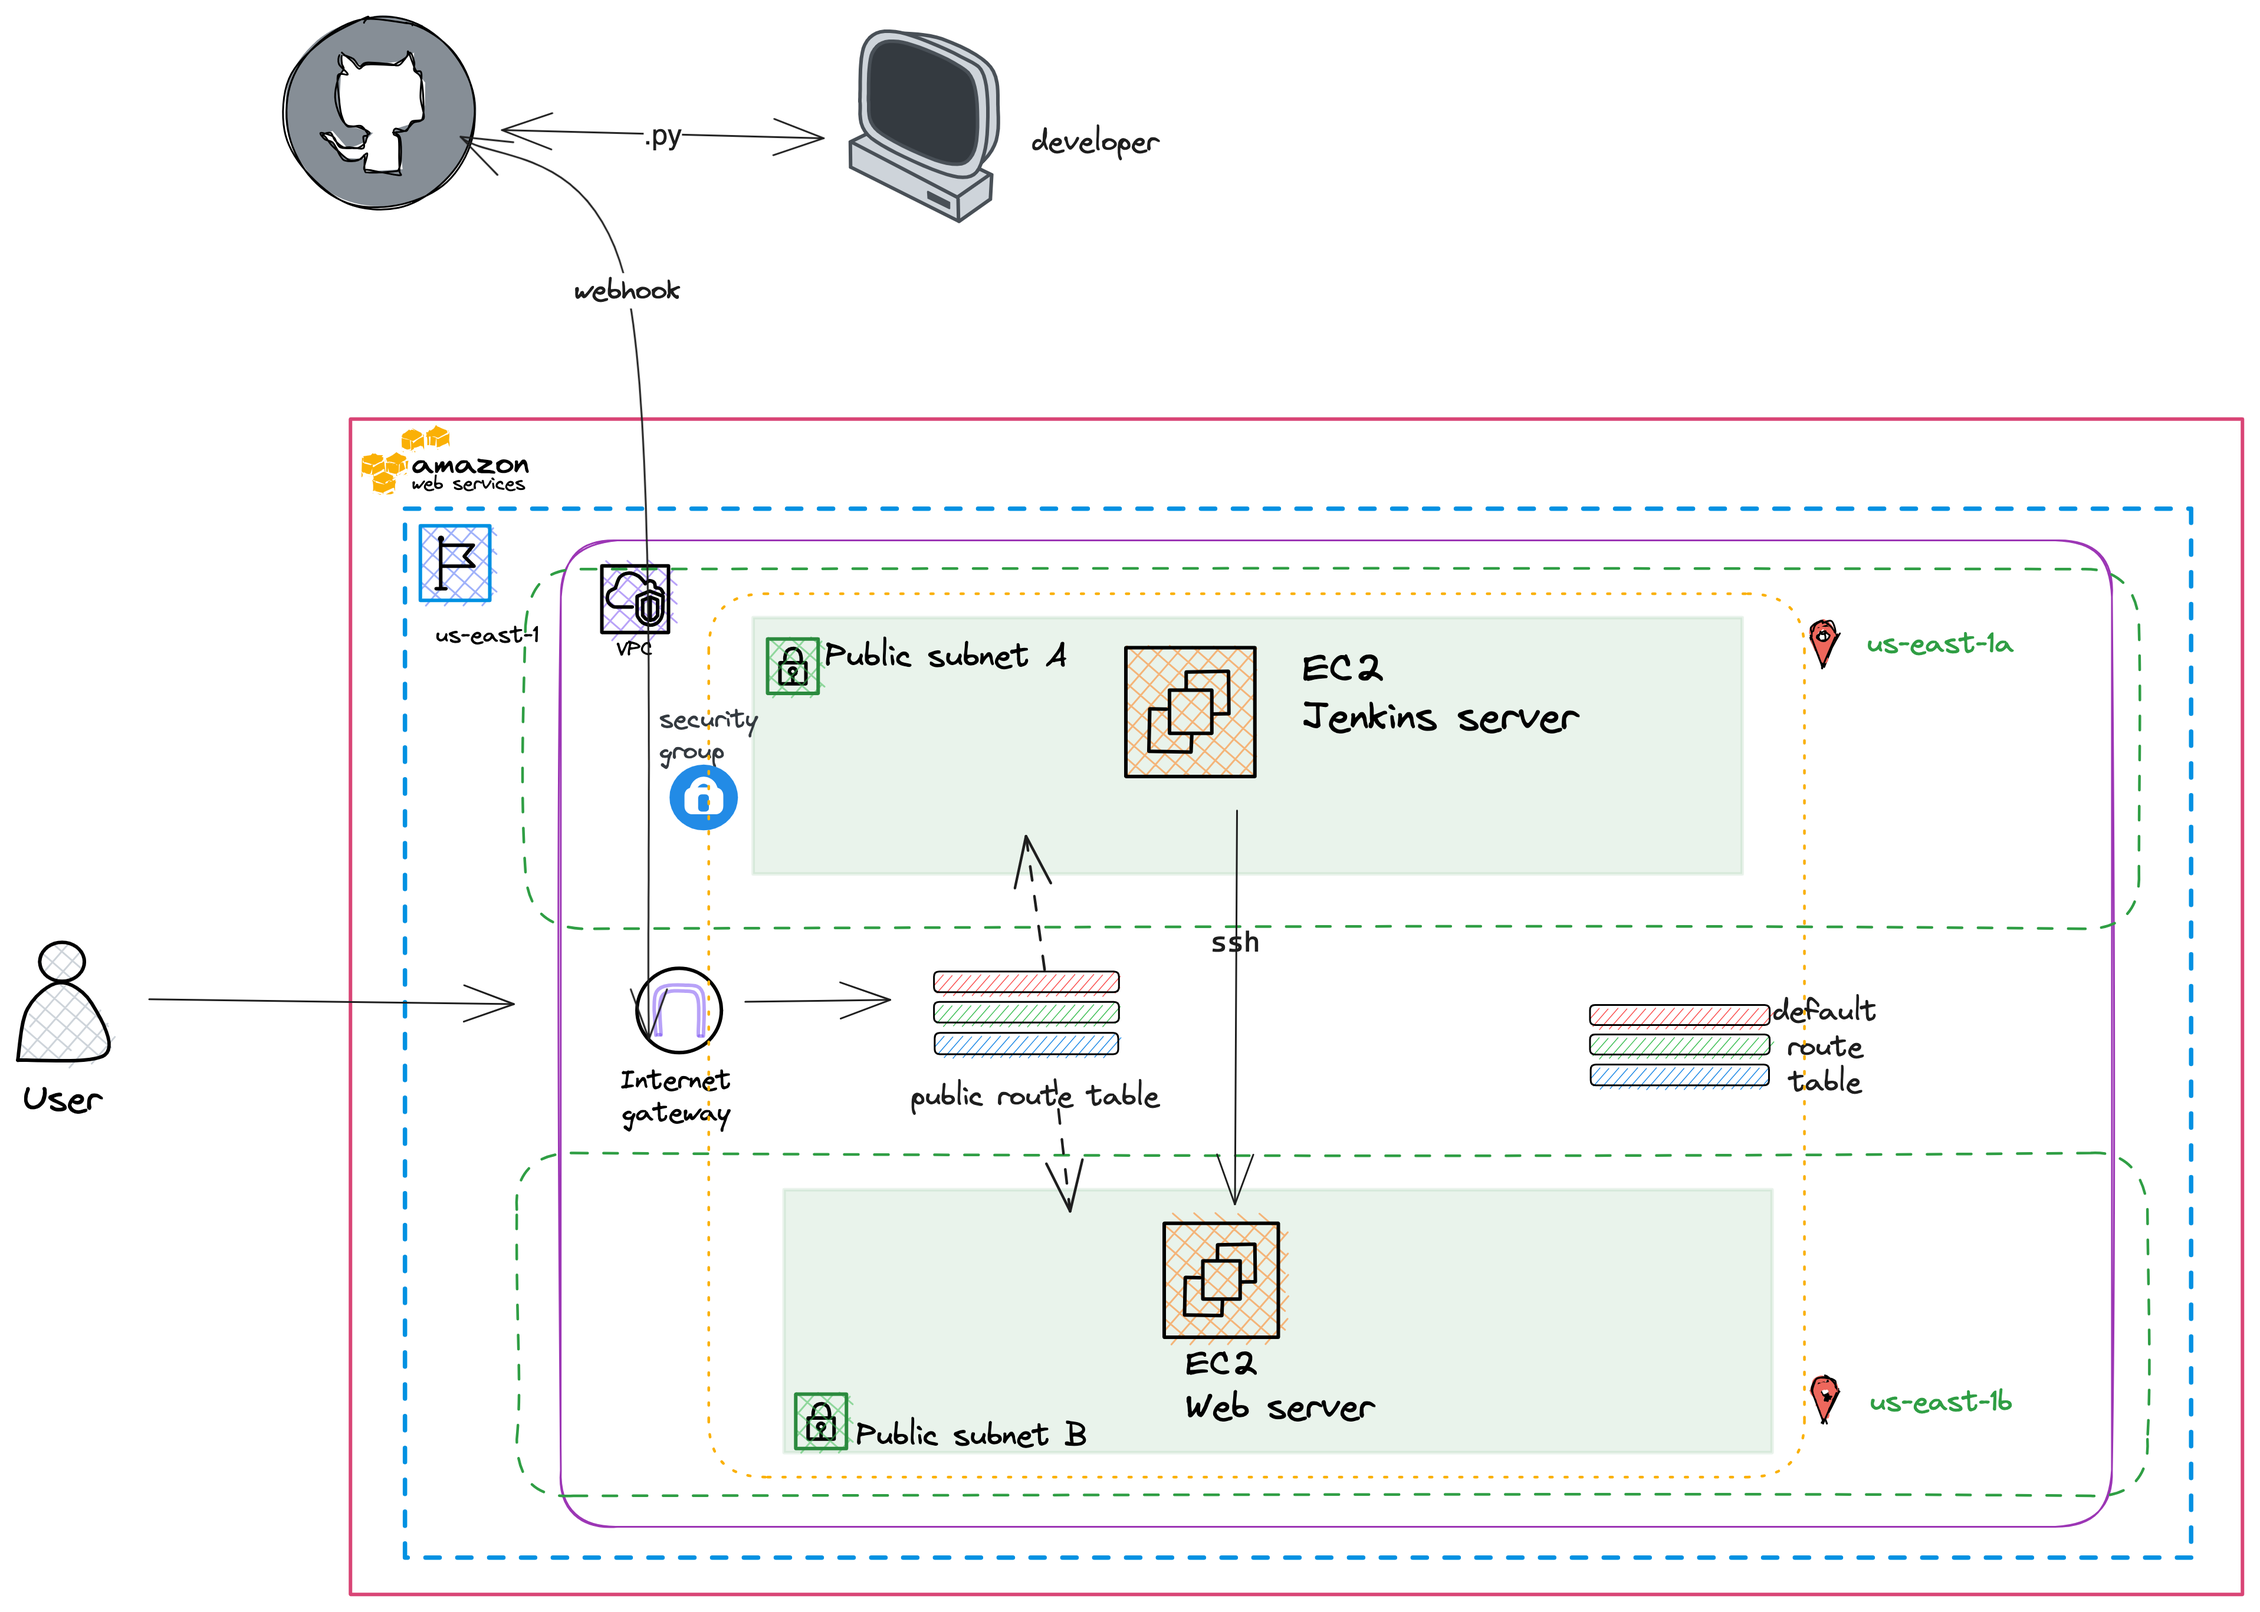
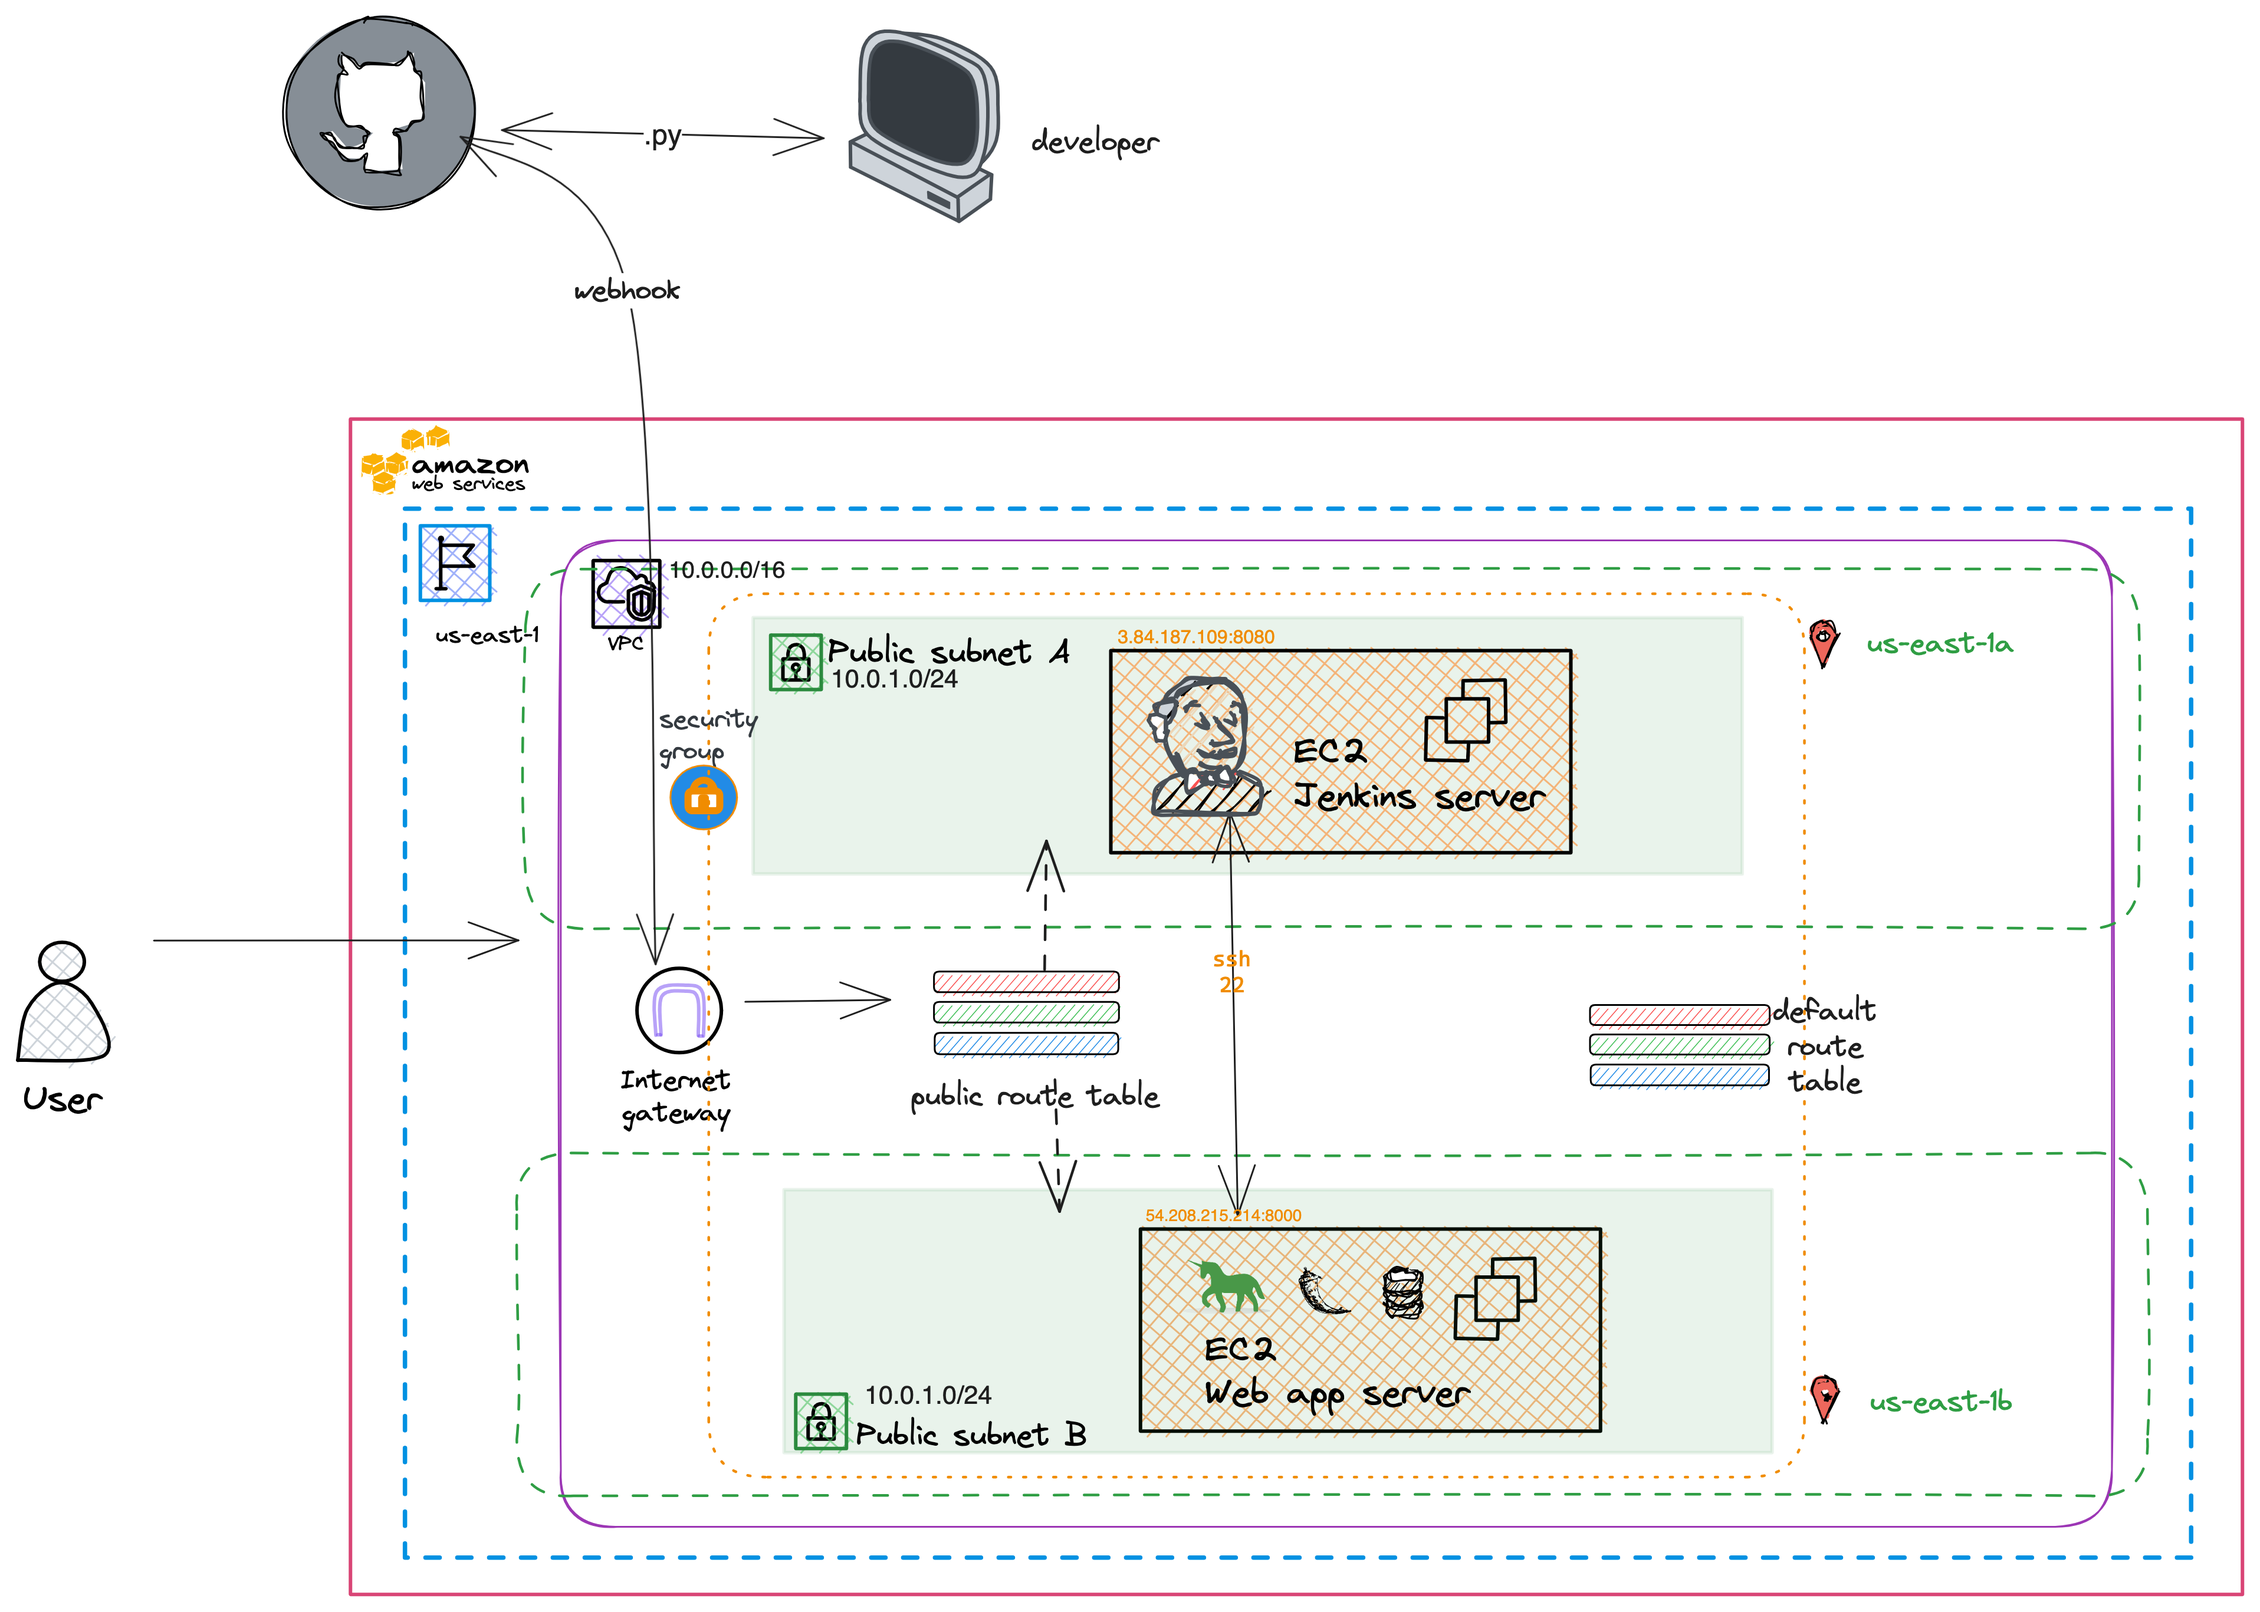
docs and diagram improvement

diff --git a/README.md b/README.md
@@ -1,6 +1,6 @@
 # Provisioning a virtual private cloud (VPC) with terraform
 
-***This is a guide to using some base line terraform code to deploy a virtual private cloud that hosts a Jenkins server along with a web server for a retail banking web application (Flask). The Jenkins server is used for a continuous integration and continuous delivery pipeline of the banking app.***
+***This is a guide to use some base line terraform code to deploy a virtual private cloud that houses a Jenkins server along with a web server for a retail banking web application (Flask). The Jenkins server is used for a continuous integration and continuous delivery pipeline of the banking app.***
 
 ## VPC Architecture
 
@@ -15,7 +15,7 @@
 
 ## Terraform
 
-Terraform is central to this project and helps avoid the need to manually create and configure resources in AWS. With terraform we can define a resources like a vpc, subnet, security group, etc. in a .tf file. We can then run the terraform code to create the resources in AWS.
+Terraform is central to this project and helps avoid the manual creation and configurations of resources in AWS. With terraform we can define a resources like a vpc, subnet, security group, etc. in a .tf file. We can then run the terraform code to create the resources in AWS.
 
 A terraform project can be started with a simple init command
 
@@ -23,13 +23,13 @@ A terraform project can be started with a simple init command
 terraform init
 ```
 
-Before we can create resources we need to provide authentication details to terraform. If the aws cli is installed and authenticated we can cat the credentials file to see the authentication details.
+Before we can create resources we need to provide authentication details to terraform so that we can access our aws account. If the aws cli is installed and authenticated we can cat the credentials file to see the authentication details.
 
 ```bash
 cat ~/.aws/credentials
 ```
 
-It's possible to add the credential to a provider block but i've found it easier to use environment variables. The environment variables are set in the terminal session that terraform is run in
+It's possible to add the credential to a provider block on the tf file but i've found it easier to use environment variables. The environment variables are set in the terminal session that terraform is runs in.
 
 ```bash
 export AWS_ACCESS_KEY_ID="anaccesskey"
@@ -60,8 +60,9 @@ If we want to destroy the resources we can run a destroy command
 terraform destroy
 ```
 
-In terraform code for this deployment we added shell scripts to the user data of the Jenkins server and the web server. The shell scripts are used to install the required software on the servers. The shell scripts are run when the servers are created. The shell scripts are located in the [scripts](./terraform) directory.
+In terraform code for this deployment we added shell scripts to the user data of the Jenkins server and the web server. The shell scripts are used to install required software on the servers. The shell scripts are run when the servers are created. The shell scripts are located in the [scripts](./terraform) directory.
 
+***variables.tf***
 With terraform a variables.tf file we can define variables like:
 
 ```terraform
@@ -85,7 +86,7 @@ Be sure to include the variables.tf file in the [.gitignore](.gitignore) file so
 
 ## Github
 
-Before you build the pipeline you'll need a Github token and use it on Jenkins so that it can pull the respository
+Before you build the pipeline you'll need a Github token and use it on Jenkins so that it can pull the repository
 
 - Navigate to your Github users setting
 - Click on 'Developer Settings'
@@ -160,7 +161,7 @@ Confirm that you can ssh into the web server from the Jenkins server.
 ssh ubuntu@{web-server-private-ip}
 ```
 
-## Jenkinsfile
+***Jenkinsfile***
 
 In the jenkins file we can use bash to ssh into the web server and deploy the web application. The scp command is used in the jenkins file to copy the setup.sh script onto the web server. The setup.sh script is then executed on the web server. The setup.sh script installs the required software on the web server and starts the web application.
 
@@ -174,3 +175,9 @@ sh '''#!/bin/bash
 Once the copy and execution commands are in the jenkins file we can run the pipeline. The pipeline will build the web application and deploy it to the web server. The web application is accessible on port 8000 of the web server's public ip address.
 
 ![retail-banking-app](retail-banking-app.png)
+
+## Improvement
+
+The pipeline set is manual. The pipeline could be built using the jenkins cli. The jenkins cli could be used to create the pipeline and add the webhook to the github repository.
+
+The security groups for the public subnets allow all inbound and outbound traffic. This is not ideal. The security groups should be updated to only allow traffic on the required ports.
